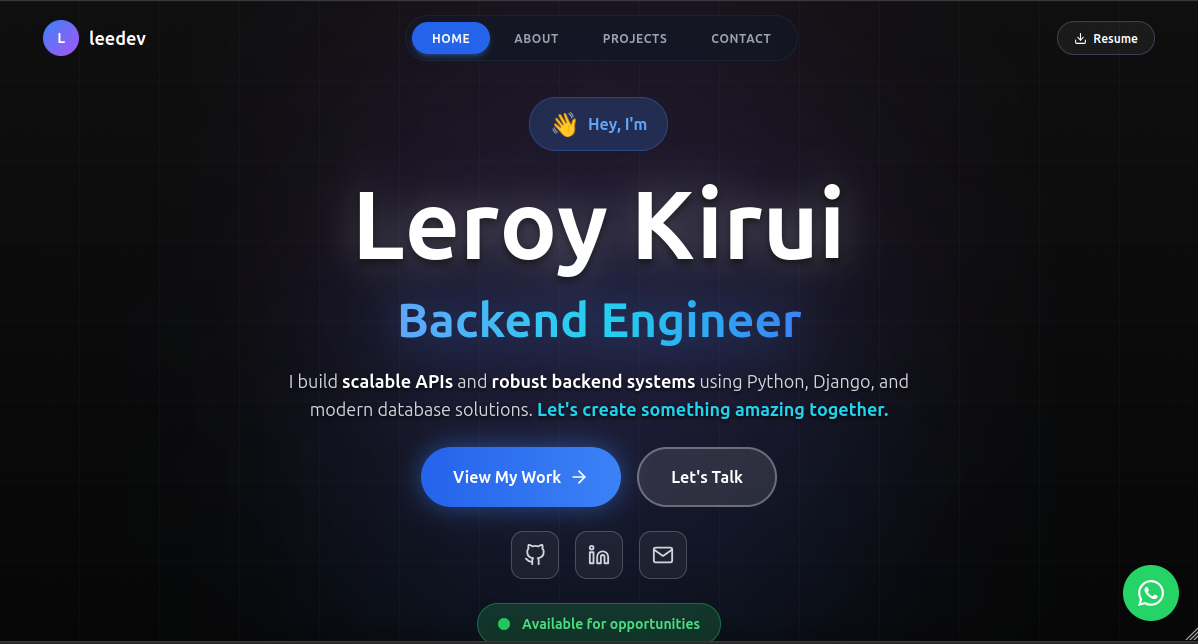
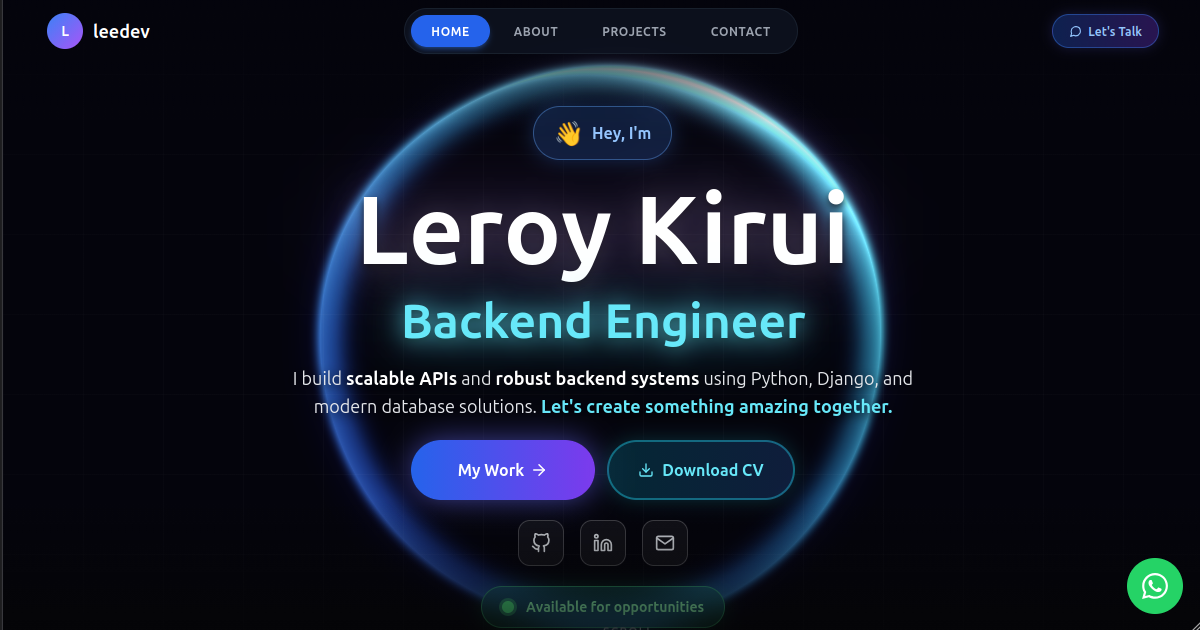
Added and image and fixed SEO

diff --git a/src/App.jsx b/src/App.jsx
@@ -9,10 +9,8 @@ import './App.css'
 function App() {
   return (
     <div className="overflow-x-hidden">
-      {/* Fixed Navbar */}
       <Navbar />
 
-      {/* Main Content */}
       <main className="relative overflow-x-hidden">
         {/* Background orbs — fixed but contained, -z-10 keeps them behind everything */}
         <div className="fixed inset-0 -z-10 overflow-hidden pointer-events-none">
@@ -26,7 +24,6 @@ function App() {
         <Contact />
       </main>
 
-      {/* Footer */}
       <Footer />
     </div>
   )
